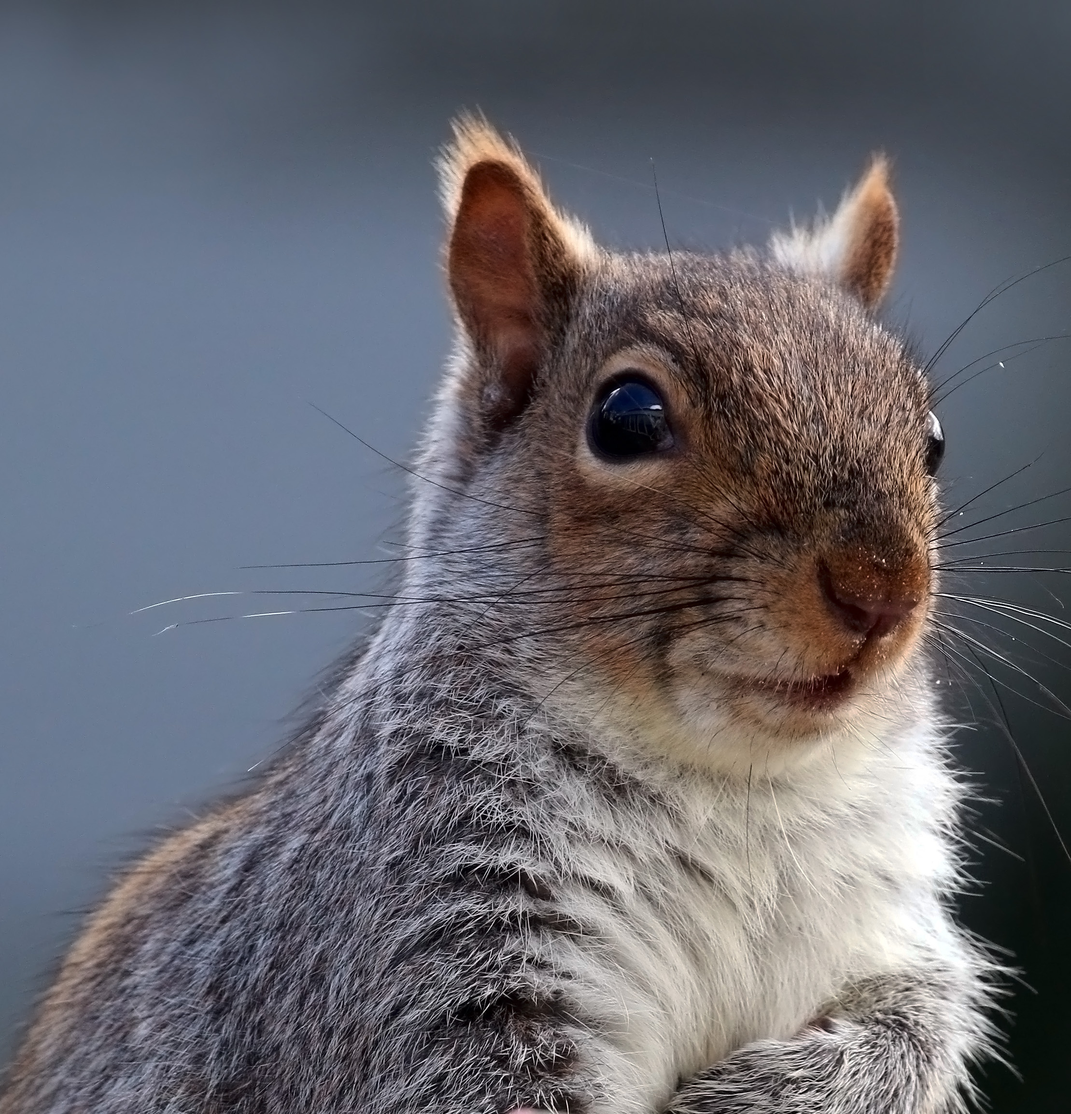
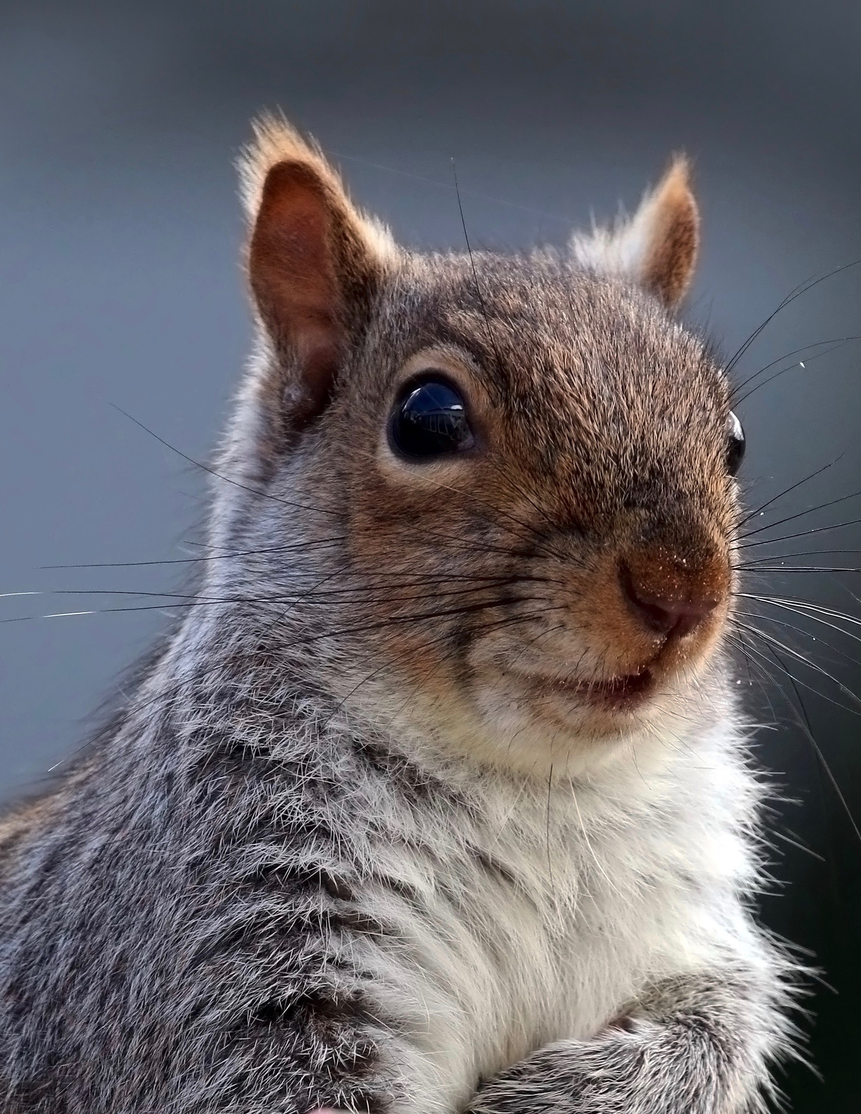
conversion pour projet à trois auteurs

diff --git a/couverture-avant.tex b/couverture-avant.tex
@@ -1,4 +1,4 @@
-%%% Copyright (C) 2018 Vincent Goulet
+%%% Copyright (C) 2018 Vincent Goulet, Frédérick Guillot, Mathieu Pigeon
 %%%
 %%% Ce fichier fait partie du projet
 %%% «Provisionnement en assurance IARD»
@@ -17,48 +17,35 @@
 \TPGrid{3}{36}
 \textblockorigin{0mm}{0mm}
 \setlength{\parindent}{0mm}
-\setlength{\imageheight}{29\TPVertModule}
-\setlength{\banderougewidth}{2\TPHorizModule}
-\setlength{\banderougeheight}{\TPVertModule}
-\setlength{\bandeorwidth}{\TPHorizModule}
-\setlength{\bandeorheight}{\banderougeheight}
-\setlength{\logoheight}{2.5\TPVertModule}
-\setlength{\gapwidth}{1.5pt}
-\addtolength{\bandeorwidth}{-\gapwidth}
-\addtolength{\imageheight}{-\gapwidth}
-\setlength{\fboxrule}{3pt}
-\setlength{\fboxsep}{0pt}
 
 \def\titlefmt{%
   \sffamily\bfseries\fontsize{45}{45}\selectfont\thetitle\par}
-\def\authorfmt{%
-  \sffamily\mdseries\fontsize{28}{28}\selectfont\theauthor}
-\def\affiliation{%
-  \sffamily\mdseries\fontsize{22}{26}\selectfont
-  Professeur titulaire \\
-  École d'actuariat, Université Laval}
+\def\authorsfmt{%
+  \sffamily\mdseries\fontsize{28}{28}\selectfont
+  V.\ Goulet \quad F.\ Guillot \quad M.\ Pigeon}
+\def\affiliations{%
+  \sffamily\mdseries
+  \fontsize{28}{28}\selectfont
+  Vincent Goulet \par
+  \fontsize{18}{22}\selectfont
+  École d'actuariat \\ Université Laval \par
+  \fontsize{28}{40}\selectfont
+  Frédérick Guillot \par
+  \fontsize{18}{22}\selectfont
+  Recherche et innovation \\ Co-operators \par
+  \fontsize{28}{40}\selectfont
+  Mathieu Pigeon \par
+  \fontsize{18}{22}\selectfont
+  Département de mathématiques \\ Université du Québec à Montréal}
+
 \def\edition{%
-  \sffamily\mdseries\fontsize{22}{26}\selectfont
+  \sffamily\mdseries\fontsize{18}{18}\selectfont
   Édition {\fullcaps\year}.\month}
-
-%% bandeau identitaire
-\begin{textblock*}{\paperwidth}[0,1](0mm,30\TPVertModule)
-  \textcolor{rouge}{\rule{\banderougewidth}{\banderougeheight}}% % bande rouge
-  \rule{\gapwidth}{0pt}%                                         % filet
-  \textcolor{or}{\rule{\bandeorwidth}{\bandeorheight}}           % bande or
-\end{textblock*}
-
-%% logo UL
-\begin{textblock*}{\TPHorizModule}(2\TPHorizModule,31\TPVertModule)
-  \rule{\gapwidth}{0pt}%                                         % filet
-  \includegraphics[height=\logoheight,%
-                   keepaspectratio=true]{ul_p}
-\end{textblock*}
 
 %% image de fond
 \begin{textblock*}{\paperwidth}(0mm,0mm)
   \includegraphics[width=\paperwidth,%
-                   keepaspectratio=true]{Sciurus_carolinensis}
+                   keepaspectratio=true]{Grey_squirrel_(Sciurus_carolinensis)_02}
 \end{textblock*}
 
 %% titre
@@ -68,10 +55,11 @@
   \pgfsetfillopacity{1}
 \end{textblock*}
 
-%% auteur
+%% auteurs
 \begin{textblock*}{2\TPHorizModule}(0.35\TPHorizModule,8.5\TPVertModule)
   \pgfsetfillopacity{0.85}
-  \textcolor{white}{\authorfmt}
+  \sffamily\mdseries\fontsize{28}{28}\selectfont
+  \textcolor{white}{\authorsfmt}
   \pgfsetfillopacity{1}
 \end{textblock*}
 
@@ -83,17 +71,13 @@
 
 %% titre
 \begin{textblock*}{1.6\TPHorizModule}(0.35\TPHorizModule,3.5\TPVertModule)
+  \pgfsetfillopacity{1}       % autrement titre un peu trop haut (?)
   \titlefmt
 \end{textblock*}
 
-%% auteur
+%% auteurs et affiliations
 \begin{textblock*}{2\TPHorizModule}(0.35\TPHorizModule,8.5\TPVertModule)
-  \authorfmt
-\end{textblock*}
-
-%% affiliation
-\begin{textblock*}{2\TPHorizModule}(0.35\TPHorizModule,10.5\TPVertModule)
-  \affiliation
+  \affiliations
 \end{textblock*}
 
 %% édition
@@ -104,7 +88,7 @@
 
 %%% Local Variables:
 %%% mode: latex
-%%% TeX-engine: xetex
 %%% TeX-master: "provisionnement-assurance-iard"
+%%% TeX-engine: xetex
 %%% coding: utf-8
 %%% End:

diff --git a/provisionnement-assurance-iard.tex b/provisionnement-assurance-iard.tex
@@ -1,4 +1,4 @@
-%%% Copyright (C) 2018 Vincent Goulet
+%%% Copyright (C) 2018 Vincent Goulet, Frédérick Guillot, Mathieu Pigeon
 %%%
 %%% Ce fichier fait partie du projet
 %%% «Provisionnement en assurance IARD»
@@ -36,10 +36,10 @@
   %%%  Informations de publication
   %%% =============================
   \title{Provisionnement en assurance IARD}
-  \author{Vincent Goulet}
+  \author{Vincent Goulet \and Frédérick Guillot \and Mathieu Pigeon}
   \renewcommand{\year}{2018}
-  \renewcommand{\month}{01-1}
-  \newcommand{\ghurl}{https://github.com/vigou3/theorie-credibilite-avec-r/}
+  \renewcommand{\month}{0}
+  \newcommand{\ghurl}{https://github.com/vigou3/provisionnement-assurance-iard/}
 
   %%% ===================
   %%%  Style du document
@@ -65,8 +65,6 @@
   \definecolor{citation}{rgb}{0,0.5,0}      % citations
   \definecolor{codebg}{named}{LightYellow1} % fond code R
   \definecolor{prob}{named}{orange}         % encadrés «problème»
-  \definecolor{rouge}{rgb}{0.85,0,0.07} % rouge bandeau identitaire
-  \definecolor{or}{rgb}{1,0.8,0}        % or bandeau identitaire
 
   %% Hyperliens
   \usepackage{hyperref}
@@ -334,10 +332,6 @@
     \href{#1}{%
       Voir sur GitHub \raisebox{-1pt}{\footnotesize\faGithub}}}
 
-  %% «Logo» C++
-  \newcommand{\Rplus}{\protect\hspace{-.05em}\protect\raisebox{.2ex}{\smaller\textbf{+}}}
-  \newcommand{\Cpp}{\mbox{C\Rplus\Rplus}\xspace}
-
   %% Raccourcis usuels vg
   \newcommand{\pt}{{\scriptscriptstyle \Sigma}}
   \newcommand{\mat}[1]{\mathbf{#1}}
@@ -367,23 +361,8 @@
   %%% Style de la bibliographie
   \bibliographystyle{francais}
 
-  %% Longueurs pour la composition des pages couvertures avant et
-  %% arrière.
-  \newlength{\banderougewidth} \newlength{\banderougeheight}
-  \newlength{\bandeorwidth}    \newlength{\bandeorheight}
-  \newlength{\imageheight}
-  \newlength{\logoheight}
-  \newlength{\gapwidth}
-
   %% Aide pour la césure
   \hyphenation{%
-    con-nai-tre
-    con-sole
-    cons-tante
-    con-tenu
-    con-trôle
-    nom-bre
-    puis-que
   }
 
 %  \includeonly{}
@@ -404,19 +383,6 @@
 
 %\include{introduction}
 \tableofcontents*
-
-%% Vignette tirée de xkcd.com
-% \cleartoverso
-% \thispagestyle{empty}
-% \begin{vplace}[0.45]
-%   \centering
-%   \begin{minipage}{0.9\linewidth}
-%     \setkeys{Gin}{width=\textwidth}
-%     \includegraphics{images/compiling.png} \\
-%     \footnotesize\sffamily%
-%     Tiré de \href{http://xkcd.com/303/}{XKCD.com}
-%   \end{minipage}
-% \end{vplace}
 
 \mainmatter
 
@@ -441,7 +407,6 @@
 \end{document}
 
 %%% Local Variables:
-%%% mode: latex
 %%% TeX-engine: xetex
 %%% TeX-master: t
 %%% coding: utf-8

diff --git a/couverture-arriere.tex b/couverture-arriere.tex
@@ -1,4 +1,4 @@
-%%% Copyright (C) 2017 Vincent Goulet
+%%% Copyright (C) 2018 Vincent Goulet, Frédérick Guillot, Mathieu Pigeon
 %%%
 %%% Ce fichier fait partie du projet
 %%% «Provisionnement en assurance IARD»
@@ -10,21 +10,6 @@
 %%% http://creativecommons.org/licenses/by-sa/4.0/
 
 \begingroup
-
-\TPGrid{3}{36}
-\textblockorigin{0mm}{0mm}
-\setlength{\parindent}{0mm}
-\setlength{\banderougewidth}{2\TPHorizModule}
-\setlength{\bandeorwidth}{\TPHorizModule}
-\setlength{\gapwidth}{2pt}
-\addtolength{\bandeorwidth}{-\gapwidth}
-
-%% bandeau identitaire arrière
-\begin{textblock*}{8.5in}[0,1](0mm,30\TPVertModule)
-  \textcolor{or}{\rule{\bandeorwidth}{\TPVertModule}}%      % bande or
-  \rule{\gapwidth}{0pt}%                                    % filet
-  \textcolor{rouge}{\rule{\banderougewidth}{\TPVertModule}} % bande rouge
-\end{textblock*}
 
 % code-barre
 \begin{textblock*}{0.9\TPHorizModule}(0.1\TPHorizModule,25\TPVertModule)

diff --git a/colophon.tex b/colophon.tex
@@ -1,4 +1,4 @@
-%%% Copyright (C) 2018 Vincent Goulet
+%%% Copyright (C) 2018 Vincent Goulet, Frédérick Guillot, Mathieu Pigeon
 %%%
 %%% Ce fichier fait partie du projet
 %%% «Provisionnement en assurance IARD»

diff --git a/notices.tex b/notices.tex
@@ -1,4 +1,4 @@
-%%% Copyright (C) 2018 Vincent Goulet
+%%% Copyright (C) 2018 Vincent Goulet, Frédérick Guillot, Mathieu Pigeon
 %%%
 %%% Ce fichier fait partie du projet
 %%% «Provisionnement en assurance IARD»
